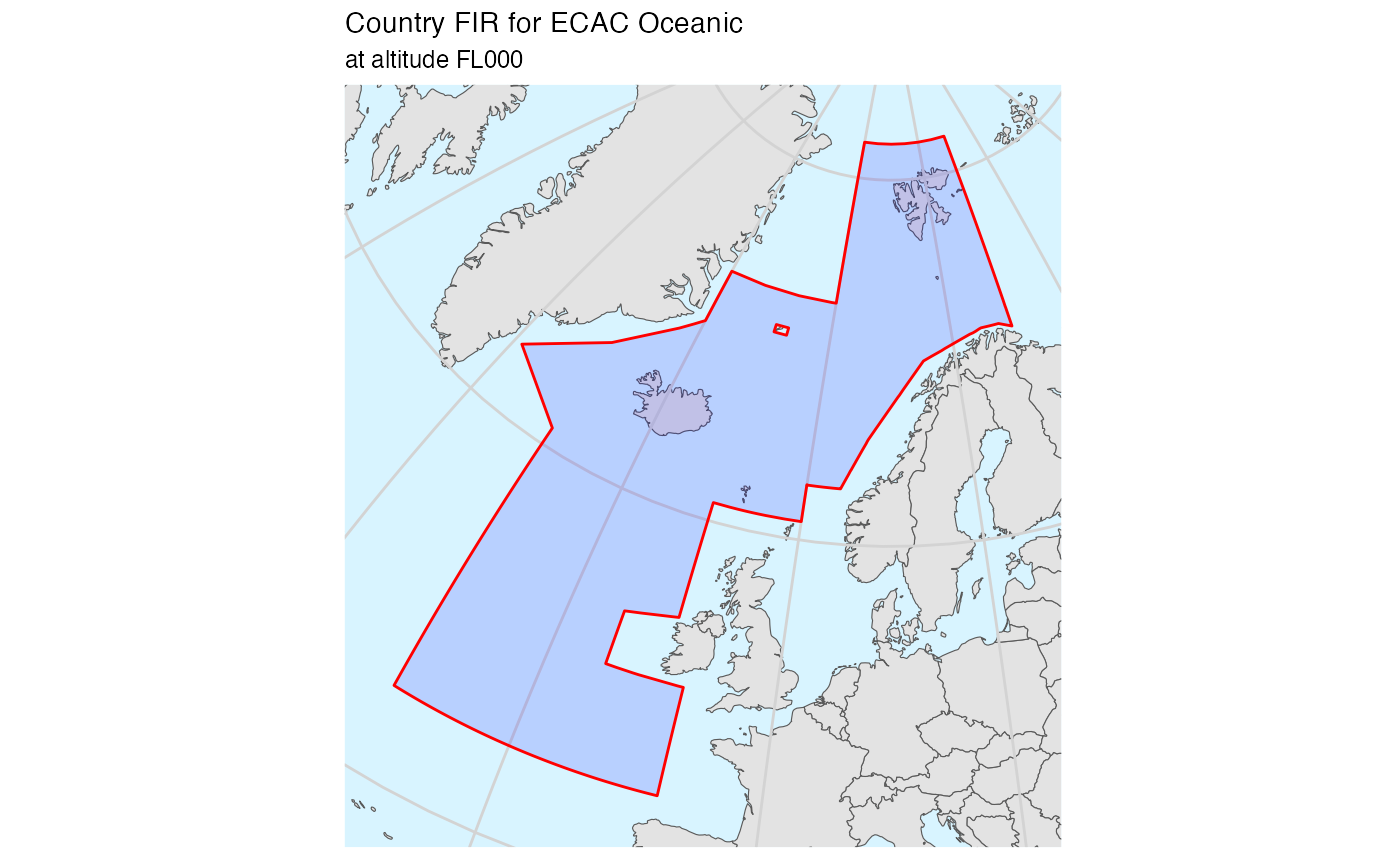
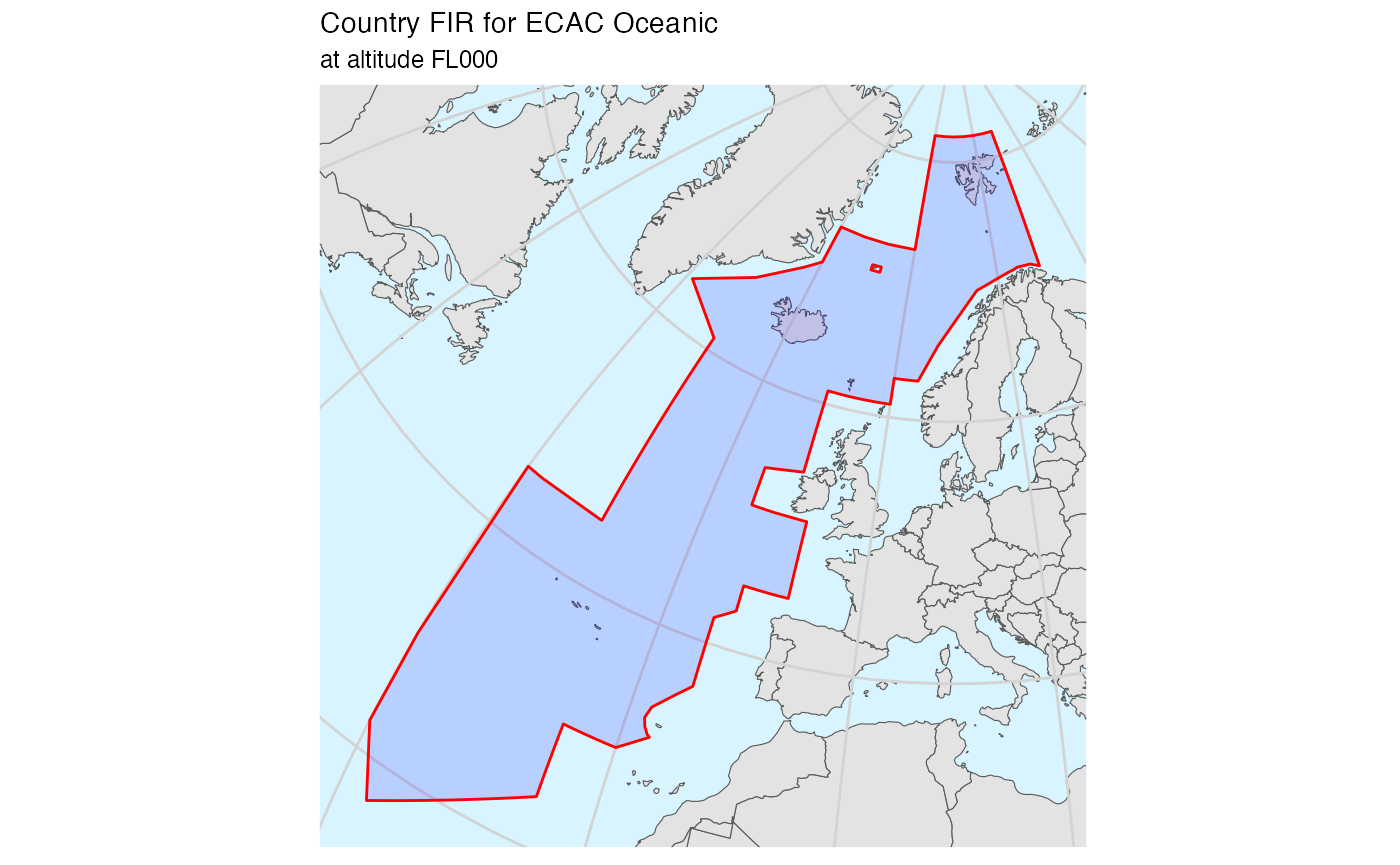
Built site for pruatlas: 0.0.1.9000@c12e23f

diff --git a/articles/eurocontrol-maps.html b/articles/eurocontrol-maps.html
@@ -241,7 +241,7 @@
 <h3 class="hasAnchor">
 <a href="#ecac-oceanic" class="anchor"></a>ECAC Oceanic</h3>
 <div class="sourceCode" id="cb9"><pre class="downlit sourceCode r">
-<code class="sourceCode R"><span class="va">ecac_oc_codes</span> <span class="op">&lt;-</span> <span class="fu"><a href="https://rdrr.io/r/base/c.html">c</a></span><span class="op">(</span><span class="st">"BI"</span>, <span class="st">"EG"</span>, <span class="st">"EK"</span>, <span class="st">"EN"</span><span class="op">)</span>
+<code class="sourceCode R"><span class="va">ecac_oc_codes</span> <span class="op">&lt;-</span> <span class="fu"><a href="https://rdrr.io/r/base/c.html">c</a></span><span class="op">(</span><span class="st">"BI"</span>, <span class="st">"EG"</span>, <span class="st">"EK"</span>, <span class="st">"EN"</span>, <span class="st">"LP"</span><span class="op">)</span>
 <span class="va">ecac_oc</span> <span class="op">&lt;-</span> <span class="fu">pruatlas</span><span class="fu">::</span><span class="va"><a href="../reference/firs_nm_406.html">firs_nm_406</a></span> <span class="op">%&gt;%</span> 
   <span class="fu">dplyr</span><span class="fu">::</span><span class="fu"><a href="https://dplyr.tidyverse.org/reference/filter.html">filter</a></span><span class="op">(</span><span class="va">icao</span> <span class="op">%in%</span> <span class="va">ecac_oc_codes</span>, <span class="va">min_fl</span> <span class="op">&lt;=</span> <span class="fl">0</span>, <span class="fl">0</span> <span class="op">&lt;=</span> <span class="va">max_fl</span><span class="op">)</span> <span class="op">%&gt;%</span>
   <span class="co"># include oceanic: SHANWICK, BODO</span>
